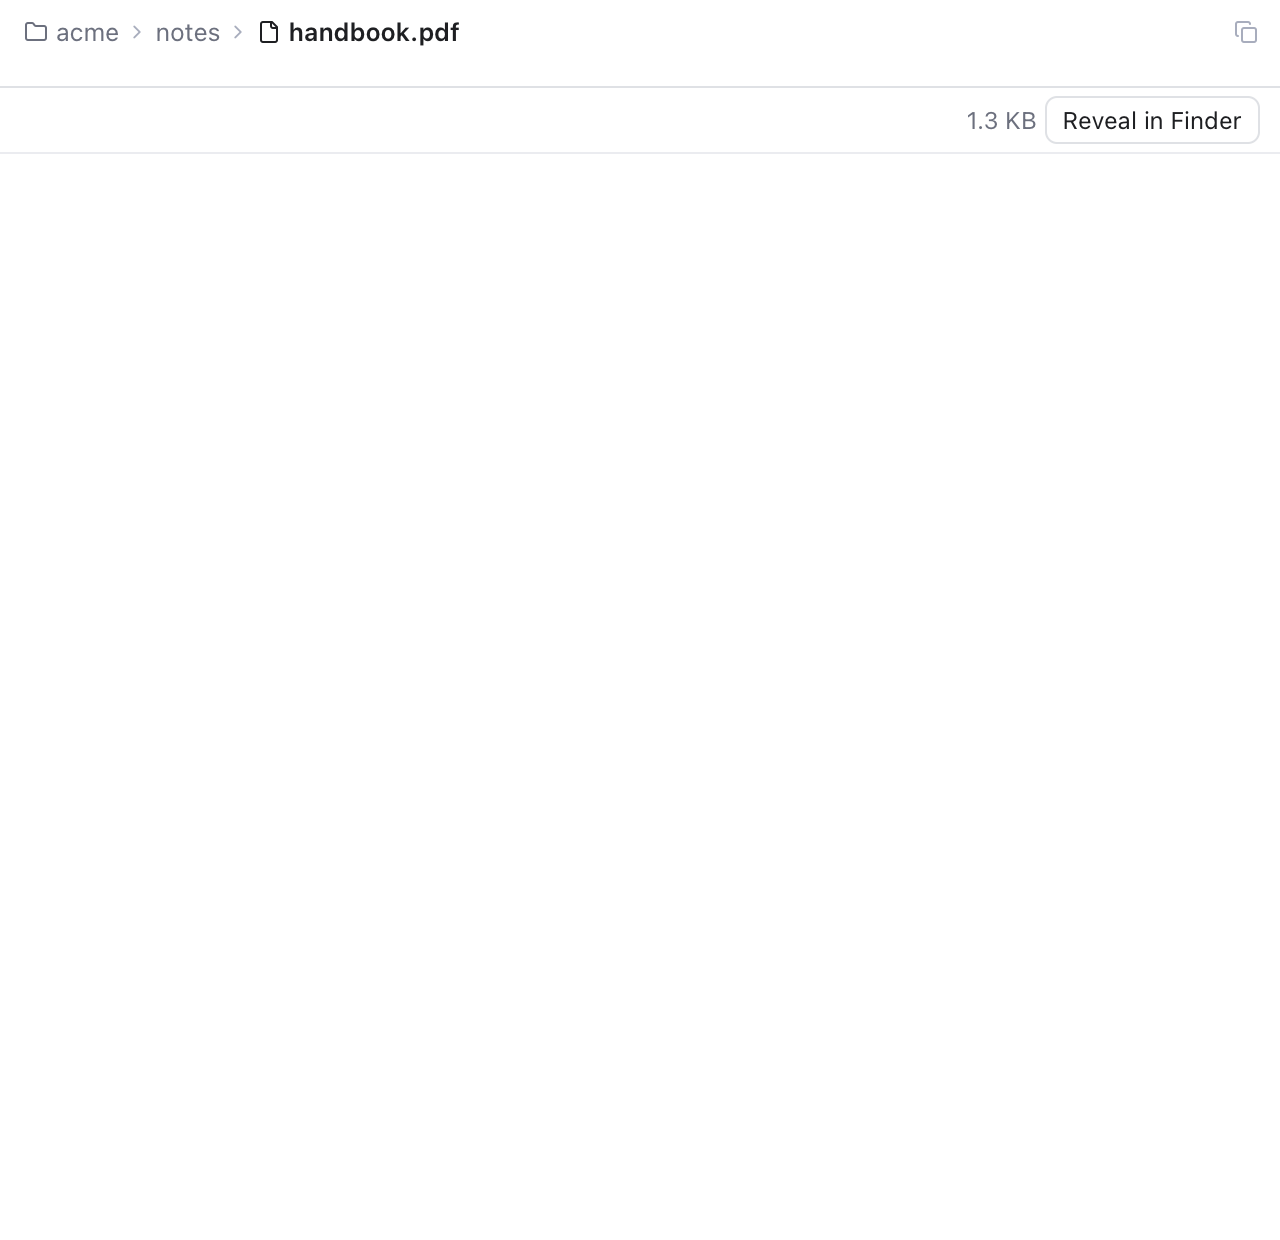
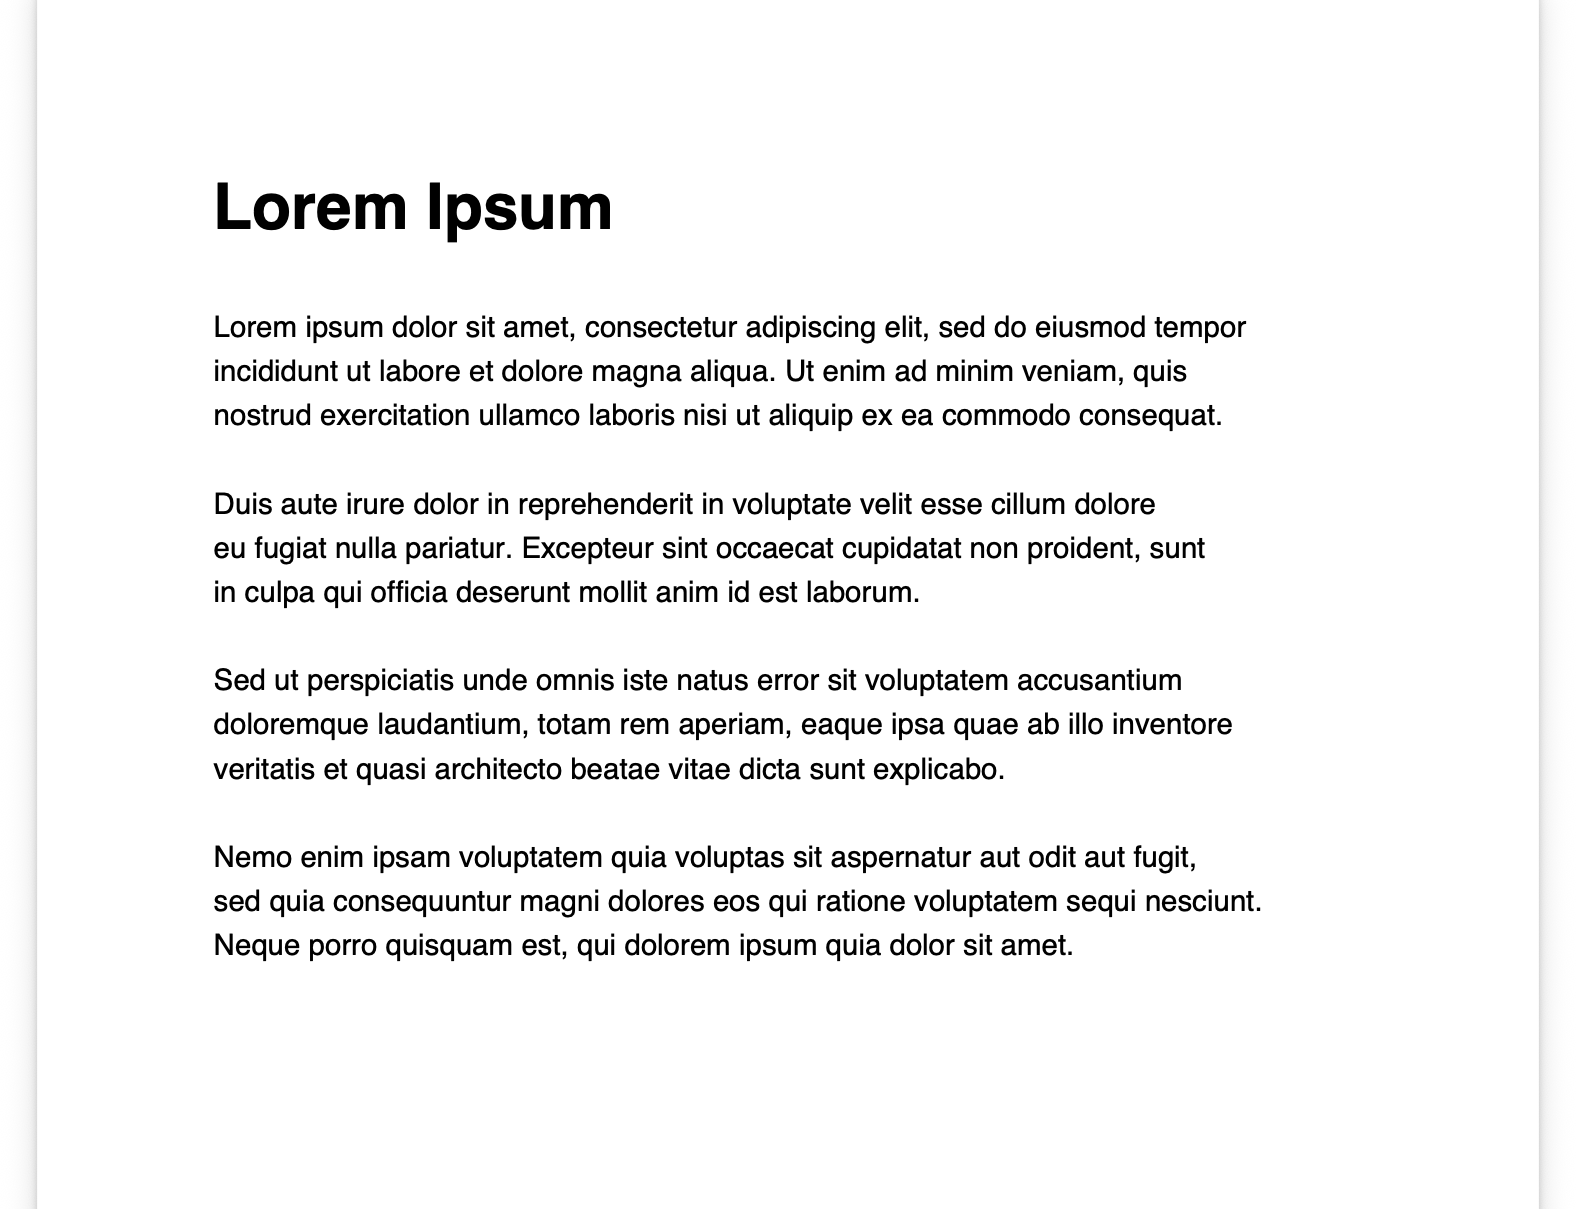
docs:[GM-8] add a real PDF preview screenshot from a lorem ipsum demo document

diff --git a/scripts/make-demo-pdf.ts b/scripts/make-demo-pdf.ts
@@ -1,5 +1,5 @@
-// Writes a small two-page PDF for the docs demo (scripts/make-docs-demo.sh), so the image and PDF
-// preview screenshot has a real document without any PDF tool installed.
+// Writes a small lorem ipsum PDF for the docs demo (scripts/make-docs-demo.sh), so the image and PDF
+// preview screenshot shows a real document without any PDF tool installed.
 // Usage: bun scripts/make-demo-pdf.ts <out.pdf>
 
 const outPath = process.argv[2];
@@ -8,25 +8,69 @@ if (!outPath) {
   process.exit(2);
 }
 
-const pages = [
-  ["Acme Storefront", "Team handbook", "", "1. Run bun install, then bun dev.", "2. Open a pull request into develop.", "3. Ask a teammate for a review."],
-  ["Releases", "", "Betas ship every week from develop.", "Stable releases follow a tried beta.", "Write every change in CHANGELOG.md."],
+const LOREM = [
+  "Lorem ipsum dolor sit amet, consectetur adipiscing elit, sed do eiusmod tempor incididunt ut labore et dolore magna aliqua. Ut enim ad minim veniam, quis nostrud exercitation ullamco laboris nisi ut aliquip ex ea commodo consequat.",
+  "Duis aute irure dolor in reprehenderit in voluptate velit esse cillum dolore eu fugiat nulla pariatur. Excepteur sint occaecat cupidatat non proident, sunt in culpa qui officia deserunt mollit anim id est laborum.",
+  "Sed ut perspiciatis unde omnis iste natus error sit voluptatem accusantium doloremque laudantium, totam rem aperiam, eaque ipsa quae ab illo inventore veritatis et quasi architecto beatae vitae dicta sunt explicabo.",
+  "Nemo enim ipsam voluptatem quia voluptas sit aspernatur aut odit aut fugit, sed quia consequuntur magni dolores eos qui ratione voluptatem sequi nesciunt. Neque porro quisquam est, qui dolorem ipsum quia dolor sit amet.",
 ];
+
+const PAGE = { width: 612, height: 792, margin: 72 };
+const BODY_SIZE = 12;
+const LINE_GAP = 18;
+/** Helvetica averages about half an em per character, so this fills the text width. */
+const CHARS_PER_LINE = Math.floor((PAGE.width - 2 * PAGE.margin) / (BODY_SIZE * 0.5));
+
+function wrap(paragraph: string): string[] {
+  const lines: string[] = [];
+  let line = "";
+  for (const word of paragraph.split(" ")) {
+    if (line && line.length + word.length + 1 > CHARS_PER_LINE) {
+      lines.push(line);
+      line = word;
+    } else {
+      line = line ? `${line} ${word}` : word;
+    }
+  }
+  if (line) {
+    lines.push(line);
+  }
+  return lines;
+}
 
 /** PDF strings escape backslashes and parentheses. */
 function escapeText(text: string): string {
   return text.replace(/[\\()]/g, (char) => `\\${char}`);
 }
 
+/** The drawing commands of one page: a title, then the paragraphs with a blank line between them. */
+function pageContent(title: string, pageNumber: number, pageCount: number): string {
+  const commands = [`BT /F2 26 Tf ${PAGE.margin} ${PAGE.height - PAGE.margin - 26} Td (${escapeText(title)}) Tj ET`];
+  let y = PAGE.height - PAGE.margin - 70;
+  for (const paragraph of LOREM) {
+    for (const line of wrap(paragraph)) {
+      commands.push(`BT /F1 ${BODY_SIZE} Tf ${PAGE.margin} ${y} Td (${escapeText(line)}) Tj ET`);
+      y -= LINE_GAP;
+    }
+    y -= LINE_GAP;
+  }
+  commands.push(`BT /F1 10 Tf ${PAGE.width / 2 - 20} 40 Td (Page ${pageNumber} of ${pageCount}) Tj ET`);
+  return commands.join("\n");
+}
+
+const titles = ["Lorem Ipsum", "Dolor Sit Amet", "Consectetur"];
 const objects: string[] = [];
-const pageIds = pages.map((_, index) => 4 + index * 2);
+const pageIds = titles.map((_, index) => 5 + index * 2);
 objects[1] = "<< /Type /Catalog /Pages 2 0 R >>";
-objects[2] = `<< /Type /Pages /Kids [${pageIds.map((id) => `${id} 0 R`).join(" ")}] /Count ${pages.length} >>`;
+objects[2] = `<< /Type /Pages /Kids [${pageIds.map((id) => `${id} 0 R`).join(" ")}] /Count ${titles.length} >>`;
 objects[3] = "<< /Type /Font /Subtype /Type1 /BaseFont /Helvetica >>";
-pages.forEach((lines, index) => {
+objects[4] = "<< /Type /Font /Subtype /Type1 /BaseFont /Helvetica-Bold >>";
+titles.forEach((title, index) => {
   const pageId = pageIds[index];
-  const body = lines.map((line, row) => `BT /F1 ${row === 0 ? 28 : 14} Tf 72 ${720 - row * 30} Td (${escapeText(line)}) Tj ET`).join("\n");
-  objects[pageId] = `<< /Type /Page /Parent 2 0 R /MediaBox [0 0 612 792] /Resources << /Font << /F1 3 0 R >> >> /Contents ${pageId + 1} 0 R >>`;
+  const body = pageContent(title, index + 1, titles.length);
+  objects[pageId] =
+    `<< /Type /Page /Parent 2 0 R /MediaBox [0 0 ${PAGE.width} ${PAGE.height}] ` +
+    `/Resources << /Font << /F1 3 0 R /F2 4 0 R >> >> /Contents ${pageId + 1} 0 R >>`;
   objects[pageId + 1] = `<< /Length ${body.length} >>\nstream\n${body}\nendstream`;
 });
 

diff --git a/scripts/screenshots.ts b/scripts/screenshots.ts
@@ -1664,10 +1664,10 @@ define("media-preview-image", async (shot) => {
   await shot.save(box);
 }, () => twoFolderScenario({ state: { explorerOpen: true }, viewport: { width: 1280, height: 760 } }));
 
-define("media-preview-pdf", async (shot) => {
-  const box = await openPreview(shot, "handbook.pdf", "iframe");
-  await shot.save({ x: box.x, y: box.y, width: box.width, height: Math.min(box.height, 620) });
-}, () => twoFolderScenario({ state: { explorerOpen: true } }));
+// media-preview-pdf.png is taken by hand: Playwright's WebKit has no PDF viewer, so this page would
+// show an empty frame. Open notes/lorem-ipsum.pdf of the demo in the real app window and capture it
+// (git-manager cli screenshot, or Cmd+Shift+4 then Space), then crop to the document. See
+// docs/wiki/developer/How-the-Image-and-PDF-Preview-Works.md.
 
 define("diff-split-resize", async (shot) => {
   await collapseRepo(shot, "payments-api");

diff --git a/docs/wiki/developer/How-the-Image-and-PDF-Preview-Works.md b/docs/wiki/developer/How-the-Image-and-PDF-Preview-Works.md
@@ -49,7 +49,7 @@ sequenceDiagram
 
 ## Design decisions
 
-**WebKit's PDF viewer, not pdf.js.** pdf.js would add megabytes of code and a worker, and keep rendering state in the page. The built-in viewer costs nothing until a PDF opens and pages through the document natively. The catch is other platforms: WebView2 on Windows has its own viewer, but WebKitGTK on Linux may show nothing. Reveal in File Explorer or Open Containing Folder stays as the way out.
+**WebKit's PDF viewer, not pdf.js.** pdf.js would add megabytes of code and a worker, and keep rendering state in the page. The built-in viewer costs nothing until a PDF opens and pages through the document natively. It is checked on macOS, where WebKit draws the pages inside the frame. The catch is other platforms: WebView2 on Windows has its own viewer, but WebKitGTK on Linux may show nothing. Reveal in File Explorer or Open Containing Folder stays as the way out.
 
 **Unmount on hide, not only on close.** Reading a file again when you come back is cheap; keeping a few decoded 20-megapixel photos in background tabs is not.
 
@@ -71,6 +71,7 @@ How the viewer looks and that memory goes down after closing a tab need a check 
 
 - Keep the extension list in `mediaPreview.ts` and `preview_mime` in `media.rs` the same.
 - Update [Image and PDF Preview](../usage/Image-and-PDF-Preview.md) and retake `media-preview-image.png` and `media-preview-pdf.png` when the viewer changes.
+- `media-preview-pdf.png` is taken by hand, since Playwright's WebKit has no PDF viewer and `scripts/screenshots.ts` would get an empty frame. Open `notes/lorem-ipsum.pdf` of the demo (`scripts/make-docs-demo.sh`, made by `scripts/make-demo-pdf.ts`) in the real app, capture the window (`git-manager cli screenshot`, or Cmd+Shift+4 then Space) and crop it to the document, so no tooltip or real path shows.
 
 ## Bugs we fixed
 
